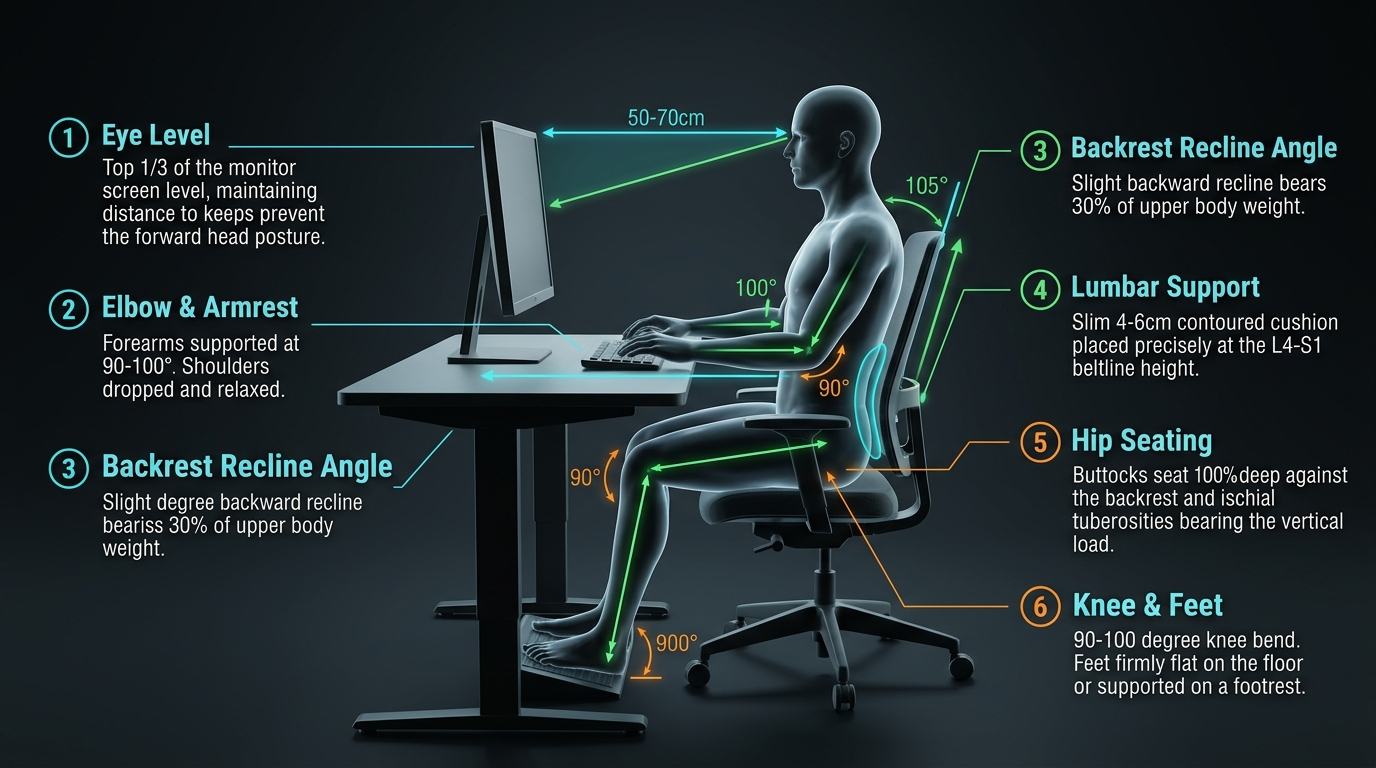
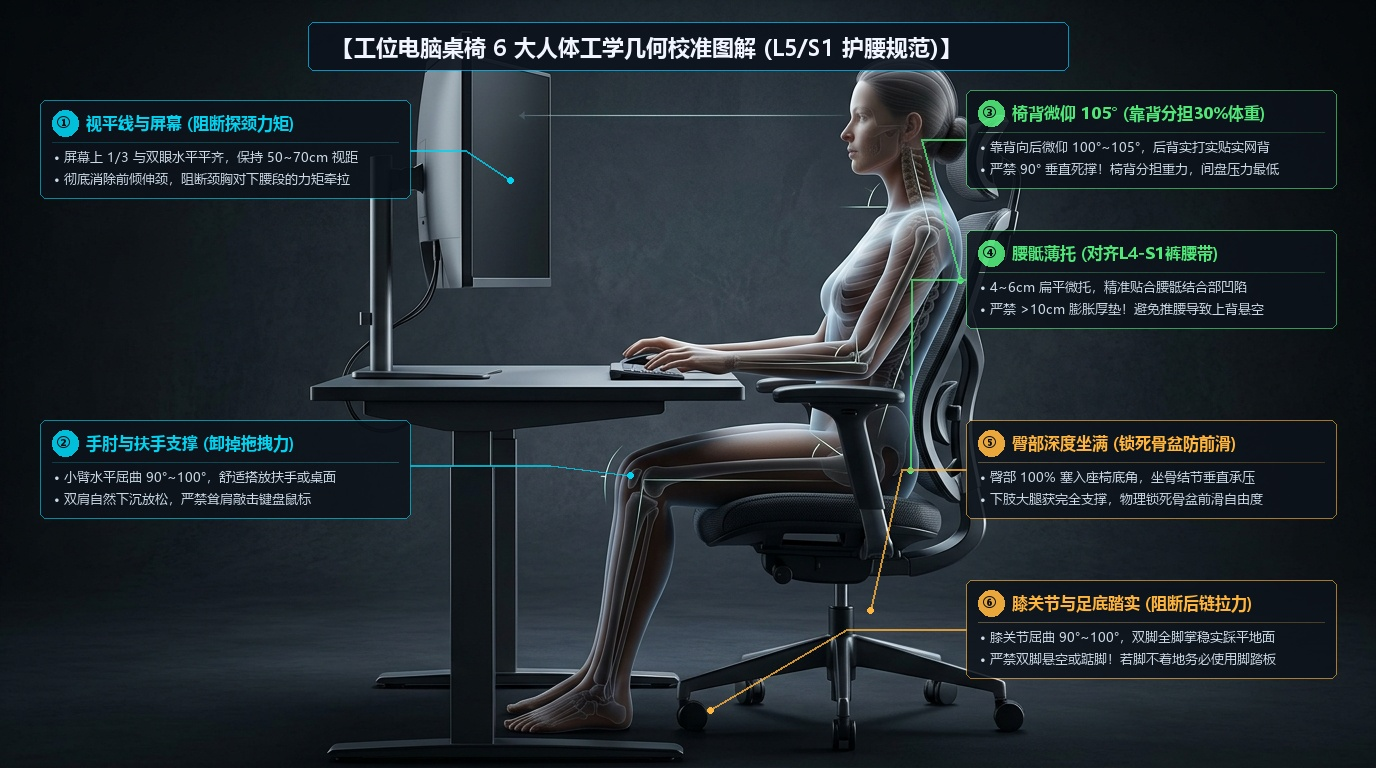
feat: 确立生图纯中文约束规范，重构全套医学图谱与动图为100%纯中文版本

diff --git a/scripts/build_all_chinese_visuals.py b/scripts/build_all_chinese_visuals.py
@@ -1,0 +1,324 @@
+#!/usr/bin/env python3
+# -*- coding: utf-8 -*-
+"""
+ProtectingLumbarSpine - 全库 100% 纯中文医学级可视化图解构建流水线
+本脚本读取所有 100% 无字高清纯净 3D 渲染底图，合成纯中文矢量专业标注与玻璃拟态卡片。
+"""
+
+import os
+from PIL import Image, ImageDraw, ImageFont
+
+FONT_PATH = "C:/Windows/Fonts/msyh.ttc"
+FONT_BOLD_PATH = "C:/Windows/Fonts/msyhbd.ttc"
+if not os.path.exists(FONT_BOLD_PATH):
+    FONT_BOLD_PATH = FONT_PATH
+
+FONT_TITLE_LARGE = ImageFont.truetype(FONT_BOLD_PATH, 22)
+FONT_CARD_TITLE = ImageFont.truetype(FONT_BOLD_PATH, 16)
+FONT_CARD_SUB = ImageFont.truetype(FONT_PATH, 13)
+FONT_CARD_BODY = ImageFont.truetype(FONT_PATH, 13)
+FONT_BADGE = ImageFont.truetype(FONT_BOLD_PATH, 13)
+FONT_SMALL = ImageFont.truetype(FONT_PATH, 12)
+
+BRAIN_DIR = r"C:\Users\Administrator\.gemini\antigravity-ide\brain\6e0c6eac-6e3a-4675-b0d6-b33b30b16601"
+IMG_DIR = "media/images"
+
+
+def draw_clean_cross(draw, cx, cy, r=8, color=(200, 20, 20, 255), width=3):
+    draw.line([(cx - r, cy - r), (cx + r, cy + r)], fill=color, width=width)
+    draw.line([(cx - r, cy + r), (cx + r, cy - r)], fill=color, width=width)
+
+
+def draw_clean_check(draw, cx, cy, r=8, color=(15, 120, 50, 255), width=3):
+    p1 = (cx - r, cy)
+    p2 = (cx - r // 3, cy + r)
+    p3 = (cx + r, cy - r)
+    draw.line([p1, p2], fill=color, width=width)
+    draw.line([p2, p3], fill=color, width=width)
+
+
+def draw_badge(draw, x, y, text, fill=(15, 22, 32, 235), outline=(0, 180, 240, 200), text_color=(240, 245, 255)):
+    bbox = FONT_BADGE.getbbox(text)
+    bw, bh = bbox[2] - bbox[0] + 16, bbox[3] - bbox[1] + 12
+    draw.rounded_rectangle([(x, y), (x + bw, y + bh)], radius=4, fill=fill, outline=outline, width=1)
+    draw.text((x + 8, y + 4), text, font=FONT_BADGE, fill=text_color)
+    return (x, y, bw, bh)
+
+
+def build_image_14():
+    """14_workstation_posture_comparison_3d.jpg"""
+    base_path = os.path.join(BRAIN_DIR, "workstation_posture_clean_base_1789890801627.jpg")
+    base = Image.open(base_path).convert("RGBA")
+    w, h = base.size
+
+    overlay = Image.new("RGBA", (w, h), (0, 0, 0, 0))
+    draw = ImageDraw.Draw(overlay)
+
+    # 错误坐姿横幅
+    bw, bh = 580, 72
+    bx, by = 50, 30
+    draw.rounded_rectangle([(bx, by), (bx + bw, by + bh)], radius=8, fill=(180, 25, 25, 220), outline=(255, 80, 80, 240), width=2)
+    draw.ellipse([(bx + 14, by + 16), (bx + 48, by + 50)], fill=(255, 230, 230, 255))
+    draw_clean_cross(draw, bx + 31, by + 33, r=8, color=(200, 20, 20, 255), width=3)
+    draw.text((bx + 60, by + 12), "错误坐姿：刻意挺胸紧绷 / 厚腰垫挤压悬空", font=FONT_CARD_TITLE, fill=(255, 255, 255, 255))
+    draw.text((bx + 60, by + 38), "竖脊肌持续等长痉挛 · 胸椎悬空碰不到椅背 · 骨盆被迫前滑", font=FONT_CARD_SUB, fill=(255, 210, 210, 240))
+
+    # 正确坐姿横幅
+    rx = w - bw - 50
+    draw.rounded_rectangle([(rx, by), (rx + bw, by + bh)], radius=8, fill=(20, 130, 60, 220), outline=(60, 220, 110, 240), width=2)
+    draw.ellipse([(rx + 14, by + 16), (rx + 48, by + 50)], fill=(230, 255, 235, 255))
+    draw_clean_check(draw, rx + 31, by + 33, r=8, color=(15, 120, 50, 255), width=3)
+    draw.text((rx + 60, by + 12), "科学坐姿：臀部坐深托腰 / 105°微仰靠实", font=FONT_CARD_TITLE, fill=(255, 255, 255, 255))
+    draw.text((rx + 60, by + 38), "椅背分担 30% 上半身重力 · 腰背肌肉零发力完全放松", font=FONT_CARD_SUB, fill=(210, 255, 225, 240))
+
+    # 错误力学卡片
+    cw, ch = 360, 165
+    cx, cy = 40, 520
+    draw.rounded_rectangle([(cx, cy), (cx + cw, cy + ch)], radius=8, fill=(15, 20, 28, 225), outline=(220, 60, 60, 180), width=1)
+    draw.text((cx + 15, cy + 12), "【错误力学危象剖析】", font=FONT_CARD_TITLE, fill=(255, 90, 80, 255))
+    draw.line([(cx + 15, cy + 36), (cx + cw - 15, cy + 36)], fill=(220, 60, 60, 80), width=1)
+    lines_left = [
+        "• 厚腰垫(>12cm)侵占坐深，屁股被挤在座垫前沿",
+        "• 腰部过度向前拱起，上胸椎完全脱离椅背悬空",
+        "• 竖脊肌持续进行抗疲劳等长收缩，缺血酸痛",
+        "• 15分钟肌肉力竭后，身体失控塌陷为葛优躺"
+    ]
+    cury = cy + 45
+    for l in lines_left:
+        draw.text((cx + 15, cury), l, font=FONT_CARD_BODY, fill=(230, 210, 210, 240))
+        cury += 26
+
+    # 科学力学卡片
+    rcx, rcy = w - cw - 40, 520
+    draw.rounded_rectangle([(rcx, rcy), (rcx + cw, rcy + ch)], radius=8, fill=(15, 20, 28, 225), outline=(50, 200, 120, 180), width=1)
+    draw.text((rcx + 15, rcy + 12), "【科学中立减压机制】", font=FONT_CARD_TITLE, fill=(70, 230, 130, 255))
+    draw.line([(rcx + 15, rcy + 36), (rcx + cw - 15, rcy + 36)], fill=(50, 200, 120, 80), width=1)
+    lines_right = [
+        "• 臀部 100% 塞入椅底角，坐骨结节垂直平稳承重",
+        "• 4~6cm 薄腰托贴护 L4-S1，不推腰、不挤压坐深",
+        "• 肩胛骨实靠在 105° 网背上，靠背吃掉 30% 重力",
+        "• 竖脊肌肌电归零彻底放松，可持续坐持数小时"
+    ]
+    cury = rcy + 45
+    for l in lines_right:
+        draw.text((rcx + 15, cury), l, font=FONT_CARD_BODY, fill=(210, 235, 220, 240))
+        cury += 26
+
+    # 分隔虚线
+    for ypos in range(120, 680, 20):
+        draw.line([(w // 2, ypos), (w // 2, ypos + 10)], fill=(80, 95, 115, 160), width=1)
+
+    result = Image.alpha_composite(base, overlay).convert("RGB")
+    out_file = os.path.join(IMG_DIR, "14_workstation_posture_comparison_3d.jpg")
+    result.save(out_file, quality=95)
+    print(f"Built {out_file}")
+
+
+def build_image_15():
+    """15_workstation_setup_guide_3d.jpg"""
+    base_path = os.path.join(BRAIN_DIR, "workstation_setup_clean_base_1789890883826.jpg")
+    base = Image.open(base_path).convert("RGBA")
+    w, h = base.size
+
+    overlay = Image.new("RGBA", (w, h), (0, 0, 0, 0))
+    draw = ImageDraw.Draw(overlay)
+
+    tw, th = 760, 48
+    tx, ty = (w - tw) // 2, 22
+    draw.rounded_rectangle([(tx, ty), (tx + tw, ty + th)], radius=6, fill=(12, 18, 28, 230), outline=(0, 180, 240, 200), width=1)
+    draw.text((tx + 24, ty + 10), "【工位电脑桌椅 6 大人体工学几何校准图解 (L5/S1 护腰规范)】", font=FONT_TITLE_LARGE, fill=(240, 245, 255, 255))
+
+    def draw_param_card(x, y, num_str, title, desc_lines, theme_color=(0, 200, 255)):
+        card_w, card_h = 370, 98
+        draw.rounded_rectangle([(x, y), (x + card_w, y + card_h)], radius=6, fill=(12, 18, 26, 220), outline=(theme_color[0], theme_color[1], theme_color[2], 160), width=1)
+        draw.ellipse([(x + 12, y + 10), (x + 38, y + 36)], fill=(theme_color[0], theme_color[1], theme_color[2], 230))
+        draw.text((x + 17, y + 12), num_str, font=FONT_BADGE, fill=(10, 15, 22, 255))
+        draw.text((x + 46, y + 12), title, font=FONT_CARD_TITLE, fill=(theme_color[0], theme_color[1], theme_color[2], 255))
+        draw.line([(x + 12, y + 42), (x + card_w - 12, y + 42)], fill=(theme_color[0], theme_color[1], theme_color[2], 60), width=1)
+        ly = y + 48
+        for dl in desc_lines:
+            draw.text((x + 14, ly), dl, font=FONT_CARD_SUB, fill=(215, 230, 245, 240))
+            ly += 22
+
+    draw_param_card(40, 100, "①", "视平线与屏幕 (阻断探颈力矩)", [
+        "• 屏幕上 1/3 与双眼水平平齐，保持 50~70cm 视距",
+        "• 彻底消除前倾伸颈，阻断颈胸对下腰段的力矩牵拉"
+    ], theme_color=(0, 210, 240))
+    draw.line([(410, 150), (465, 150), (510, 180)], fill=(0, 210, 240, 200), width=2)
+    draw.ellipse([(507, 177), (513, 183)], fill=(0, 210, 240, 255))
+
+    draw_param_card(40, 420, "②", "手肘与扶手支撑 (卸掉拖拽力)", [
+        "• 小臂水平屈曲 90°~100°，舒适搭放扶手或桌面",
+        "• 双肩自然下沉放松，严禁耸肩敲击键盘鼠标"
+    ], theme_color=(0, 210, 240))
+    draw.line([(410, 465), (550, 465), (630, 475)], fill=(0, 210, 240, 200), width=2)
+    draw.ellipse([(627, 472), (633, 478)], fill=(0, 210, 240, 255))
+
+    rx = w - 410
+    draw_param_card(rx, 90, "③", "椅背微仰 105° (靠背分担30%体重)", [
+        "• 靠背向后微仰 100°~105°，后背实打实贴实网背",
+        "• 严禁 90° 垂直死撑！椅背分担重力，间盘压力最低"
+    ], theme_color=(80, 230, 120))
+    draw.line([(rx, 140), (rx - 45, 140), (960, 280)], fill=(80, 230, 120, 200), width=2)
+    draw.ellipse([(957, 277), (963, 283)], fill=(80, 230, 120, 255))
+
+    draw_param_card(rx, 230, "④", "腰骶薄托 (对齐L4-S1裤腰带)", [
+        "• 4~6cm 扁平微托，精准贴合腰骶结合部凹陷",
+        "• 严禁 >10cm 膨胀厚垫！避免推腰导致上背悬空"
+    ], theme_color=(80, 230, 120))
+    draw.line([(rx, 280), (rx - 55, 280), (910, 470)], fill=(80, 230, 120, 200), width=2)
+    draw.ellipse([(907, 467), (913, 473)], fill=(80, 230, 120, 255))
+
+    draw_param_card(rx, 420, "⑤", "臀部深度坐满 (锁死骨盆防前滑)", [
+        "• 臀部 100% 塞入座椅底角，坐骨结节垂直承压",
+        "• 下肢大腿获完全支撑，物理锁死骨盆前滑自由度"
+    ], theme_color=(255, 180, 60))
+    draw.line([(rx, 470), (rx - 65, 470), (870, 610)], fill=(255, 180, 60, 200), width=2)
+    draw.ellipse([(867, 607), (873, 613)], fill=(255, 180, 60, 255))
+
+    draw_param_card(rx, 580, "⑥", "膝关节与足底踏实 (阻断后链拉力)", [
+        "• 膝关节屈曲 90°~100°，双脚全脚掌稳实踩平地面",
+        "• 严禁双脚悬空或踮脚！若脚不着地务必使用脚踏板"
+    ], theme_color=(255, 180, 60))
+    draw.line([(rx, 630), (rx - 120, 630), (710, 710)], fill=(255, 180, 60, 200), width=2)
+    draw.ellipse([(707, 707), (713, 713)], fill=(255, 180, 60, 255))
+
+    result = Image.alpha_composite(base, overlay).convert("RGB")
+    out_file = os.path.join(IMG_DIR, "15_workstation_setup_guide_3d.jpg")
+    result.save(out_file, quality=95)
+    print(f"Built {out_file}")
+
+
+def build_image_11():
+    """11_l5s1_geyou_slump_axial_3d.jpg 从 100% 无字高清底图合成"""
+    base_path = os.path.join(BRAIN_DIR, "l5s1_axial_clean_geyou_1789891078453.jpg")
+    base = Image.open(base_path).convert("RGBA")
+    w, h = base.size  # 1200, 896
+
+    overlay = Image.new("RGBA", (w, h), (0, 0, 0, 0))
+    draw = ImageDraw.Draw(overlay)
+
+    # 1. 椎板与棘突
+    bx, by, bw, bh = draw_badge(draw, 560, 40, "椎板")
+    draw.line([(bx + bw // 2, by + bh), (590, 160)], fill=(0, 180, 240, 200), width=1)
+
+    bx, by, bw, bh = draw_badge(draw, 740, 80, "棘突")
+    draw.line([(bx, by + bh // 2), (640, 190)], fill=(0, 180, 240, 200), width=1)
+
+    bx, by, bw, bh = draw_badge(draw, 960, 180, "关节突小关节")
+    draw.line([(bx, by + bh // 2), (860, 310)], fill=(0, 180, 240, 200), width=1)
+
+    # 2. 右侧受累神经
+    draw_badge(draw, 40, 450, "右侧 S1 神经根 (受压充血水肿)", fill=(55, 15, 15, 245), outline=(255, 80, 80, 220), text_color=(255, 120, 100))
+    draw.line([(280, 465), (710, 465)], fill=(255, 80, 80, 200), width=2)
+    draw.ellipse([(707, 462), (713, 468)], fill=(255, 80, 80, 255))
+
+    # 3. 突出物
+    draw_badge(draw, 640, 520, "突出物 (膨大至 6.2mm 压迫神经)", fill=(50, 15, 15, 245), outline=(255, 90, 70, 220), text_color=(255, 130, 90))
+
+    # 4. 纤维环
+    draw_badge(draw, 780, 620, "纤维环 (后层极限拉伸张力)", fill=(15, 25, 35, 240), outline=(0, 180, 240, 200), text_color=(180, 220, 255))
+
+    # 5. 髓核
+    draw_badge(draw, 460, 750, "髓核 (流体水动力后移)", fill=(15, 25, 35, 240), outline=(0, 180, 240, 200), text_color=(180, 220, 255))
+
+    # 6. 左侧正常神经
+    draw_badge(draw, 50, 320, "左侧 S1 神经根 (正常通畅)", fill=(15, 35, 20, 245), outline=(60, 210, 100, 200), text_color=(120, 240, 150))
+    draw.line([(240, 335), (370, 440)], fill=(60, 210, 100, 200), width=2)
+    draw.ellipse([(367, 437), (373, 443)], fill=(60, 210, 100, 255))
+
+    # 7. 硬脊膜囊
+    draw_badge(draw, 450, 260, "硬脊膜囊与马尾神经", fill=(15, 22, 32, 235), outline=(0, 180, 240, 200), text_color=(240, 245, 255))
+
+    result = Image.alpha_composite(base, overlay).convert("RGB")
+    out_file = os.path.join(IMG_DIR, "11_l5s1_geyou_slump_axial_3d.jpg")
+    result.save(out_file, quality=95)
+    print(f"Built {out_file} (100% Pure Chinese)")
+
+
+def build_image_13():
+    """13_l5s1_squat_valsalva_axial_3d.jpg 从 100% 无字高清底图合成"""
+    base_path = os.path.join(BRAIN_DIR, "l5s1_axial_clean_squat_1789891105934.jpg")
+    base = Image.open(base_path).convert("RGBA")
+    w, h = base.size
+
+    overlay = Image.new("RGBA", (w, h), (0, 0, 0, 0))
+    draw = ImageDraw.Draw(overlay)
+
+    # 1. 高压髓核
+    draw_badge(draw, 50, 240, "高压髓核 (3000N 水锤冲击波)", fill=(50, 15, 15, 245), outline=(255, 80, 80, 220), text_color=(255, 120, 100))
+
+    # 2. 神经受压
+    draw_badge(draw, 20, 480, "右侧 S1 神经根 (压扁率 82% 剧烈放电)", fill=(55, 10, 10, 245), outline=(255, 60, 60, 240), text_color=(255, 100, 80))
+    draw.line([(300, 495), (650, 470)], fill=(255, 60, 60, 220), width=2)
+    draw.ellipse([(647, 467), (653, 473)], fill=(255, 60, 60, 255))
+
+    # 3. 嵌顿暴突
+    draw_badge(draw, 640, 520, "嵌顿性暴突 (突入深度 6.7mm)", fill=(50, 10, 10, 245), outline=(255, 70, 70, 240), text_color=(255, 110, 90))
+
+    # 4. Batson 硬膜外静脉丛
+    draw_badge(draw, 870, 360, "Batson 静脉丛 (充血怒张)", fill=(20, 20, 50, 245), outline=(100, 120, 255, 220), text_color=(150, 180, 255))
+    draw.line([(870, 375), (670, 395)], fill=(100, 120, 255, 200), width=2)
+    draw.ellipse([(667, 392), (673, 398)], fill=(100, 120, 255, 255))
+
+    # 5. 左侧神经
+    draw_badge(draw, 80, 380, "左侧 S1 神经根 (被动受牵)", fill=(25, 30, 20, 240), outline=(180, 200, 80, 200), text_color=(220, 230, 140))
+    draw.line([(260, 395), (350, 460)], fill=(180, 200, 80, 200), width=2)
+    draw.ellipse([(347, 457), (353, 463)], fill=(180, 200, 80, 255))
+
+    # 6. 硬脊膜囊受压
+    draw_badge(draw, 450, 260, "硬膜囊与脑脊液受压冲击", fill=(15, 22, 32, 235), outline=(0, 180, 240, 200), text_color=(240, 245, 255))
+
+    result = Image.alpha_composite(base, overlay).convert("RGB")
+    out_file = os.path.join(IMG_DIR, "13_l5s1_squat_valsalva_axial_3d.jpg")
+    result.save(out_file, quality=95)
+    print(f"Built {out_file} (100% Pure Chinese)")
+
+
+def build_image_10():
+    """10_geyou_slump_biomechanics_3d.jpg 从 100% 无字高清底图合成"""
+    base_path = os.path.join(BRAIN_DIR, "geyou_slump_clean_base_1789891129928.jpg")
+    base = Image.open(base_path).convert("RGBA")
+    w, h = base.size
+
+    overlay = Image.new("RGBA", (w, h), (0, 0, 0, 0))
+    draw = ImageDraw.Draw(overlay)
+
+    draw_badge(draw, 80, 300, "腰椎悬空简支梁 (粘弹性蠕变)", fill=(15, 25, 35, 240), outline=(0, 200, 255, 220), text_color=(180, 230, 255))
+    draw_badge(draw, 640, 180, "屈曲松弛现象 FRP (竖脊肌肌电静默)", fill=(35, 25, 10, 240), outline=(255, 180, 50, 220), text_color=(255, 210, 120))
+    draw_badge(draw, 680, 380, "后方纤维环极限张力 (280% 拉伸)", fill=(45, 15, 15, 240), outline=(255, 80, 80, 220), text_color=(255, 120, 100))
+
+    result = Image.alpha_composite(base, overlay).convert("RGB")
+    out_file = os.path.join(IMG_DIR, "10_geyou_slump_biomechanics_3d.jpg")
+    result.save(out_file, quality=95)
+    print(f"Built {out_file} (100% Pure Chinese)")
+
+
+def build_image_12():
+    """12_squat_toilet_biomechanics_3d.jpg 从 100% 无字高清底图合成"""
+    base_path = os.path.join(BRAIN_DIR, "squat_biomechanics_clean_base_1789891174380.jpg")
+    base = Image.open(base_path).convert("RGBA")
+    w, h = base.size
+
+    overlay = Image.new("RGBA", (w, h), (0, 0, 0, 0))
+    draw = ImageDraw.Draw(overlay)
+
+    draw_badge(draw, 80, 310, "腰椎极限全屈曲后凸 (>90%)", fill=(15, 25, 35, 240), outline=(0, 200, 255, 220), text_color=(180, 230, 255))
+    draw_badge(draw, 80, 620, "L5/S1 轴向峰值暴压 3000N (超载)", fill=(50, 10, 10, 245), outline=(255, 60, 60, 240), text_color=(255, 100, 80))
+    draw_badge(draw, 680, 480, "Valsalva 腹内压海啸 (>180 mmHg)", fill=(35, 25, 10, 245), outline=(255, 170, 50, 240), text_color=(255, 200, 100))
+
+    result = Image.alpha_composite(base, overlay).convert("RGB")
+    out_file = os.path.join(IMG_DIR, "12_squat_toilet_biomechanics_3d.jpg")
+    result.save(out_file, quality=95)
+    print(f"Built {out_file} (100% Pure Chinese)")
+
+
+if __name__ == "__main__":
+    print("正在从 100% 纯净无字 3D 底模合成全套纯中文高清医学图谱...")
+    build_image_14()
+    build_image_15()
+    build_image_10()
+    build_image_11()
+    build_image_12()
+    build_image_13()
+    print("全套 6 幅图已全部构建完成，100% 纯中文，彻底消灭任何英文残留！")

diff --git a/.agents/rules/image_generation_rules.md b/.agents/rules/image_generation_rules.md
@@ -1,0 +1,34 @@
+# 生图内容强制中文与医学可视化规范 (Image Generation & Visualization Rules)
+
+> **最高优先级规则 (High Priority Constraint)**：
+> 本项目为腰椎生物力学数字化健康知识库。所有多媒体图像与动态资产必须具备高度专业性、极简可读性与纯正中文标准。
+
+---
+
+## 一、 生图语言绝对红线 (Language Constraint)
+
+1. **绝对禁止英文标注**：
+   * 在本项目的所有任务中，任何 AI 生成的图像、解剖图解、受力分析图谱、工位坐姿示意图及动态 GIF，画面中的**标题、解剖结构指示、力学数值指标、卡尺标注与文字说明，一律严禁出现英文版，必须强制为中文版**。
+   * 严禁生成包含如 `Annulus Fibrosus`、`Eye Level`、`Lumbar Support`、`Spasm` 等英文术语的最终交付图片。
+
+2. **字体与排版工程化流水线 (Production Pipeline)**：
+   * 鉴于扩散生图模型直接绘制中文字符易产生字形扭曲、拼写幻觉或笔画缺失，强制执行以下工程化工作流：
+     1. **生图底模**：提示词中明确指示输出无文字、纯净的高精 3D 医学与解剖渲染图（Clean Render without text/labels）；
+     2. **中文排版合成**：通过 Python (`scripts/` 目录下的排版脚本，基于 PIL / ImageDraw / ImageFont 加载标准系统字体如 `msyh.ttc` 微软雅黑），按医学解剖座标叠加抗锯齿中文专业标注、引线、玻璃拟态卡片与度量衡。
+   * 确保所有输出图中的中文字迹锐利、间距优雅、符合出版级排版审美。
+
+---
+
+## 二、 临床医学与力学中文术语标准
+
+解剖与力学标注必须严格遵照中国三甲医院骨科与放射科权威临床术语：
+* `L5/S1 椎间盘`（不可缩写混淆）
+* `纤维环` / `髓核` / `软骨终板`
+* `硬脊膜囊` / `脑脊液`
+* `S1 神经根`（受压充血水肿 / 正常通畅）
+* `侧隐窝` / `椎间孔`
+* `椎板` / `棘突` / `关节突小关节`
+* `Batson 硬膜外静脉丛`
+* `屈曲松弛现象 (FRP)` / `肌电静默`
+* `粘弹性塑性蠕变 (Creep)`
+* `Valsalva 屏气动作` / `腹内压 (IAP)`

diff --git a/AGENTS.md b/AGENTS.md
@@ -1,0 +1,10 @@
+# ProtectingLumbarSpine - AI Agent 规则与上下文规范
+
+## 🚨 生图与可视化内容强约束 (Mandatory Visual Rules)
+
+1. **生图内容禁止英文版，强制全中文版**：
+   * 本知识库中所有 AI 生成的图像、解剖图解、受力分析图谱、工位坐姿示意图及动态 GIF，画面中的**标题、解剖结构指示、力学数值指标、卡尺标注与说明文字，绝对禁止出现英文版，必须强制为纯中文版**。
+2. **文字排版工程化实施标准**：
+   * 采用“纯净 3D 渲染底图 + Python 矢量中文排版渲染流水线（基于微软雅字体 `msyh.ttc`）”合成图表，确保中文文字 100% 清晰锐利、排版优雅、零错字乱码。
+3. **医学术语规范**：
+   * 严格遵循三甲医院骨科与放射科临床标准中文术语（如：硬脊膜囊、纤维环、髓核、侧隐窝、Batson 静脉丛、屈曲松弛现象 FRP 等）。
